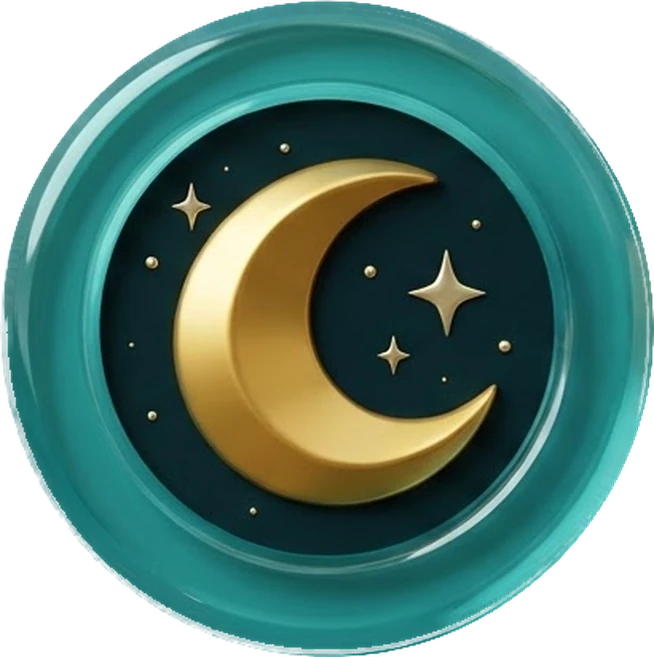
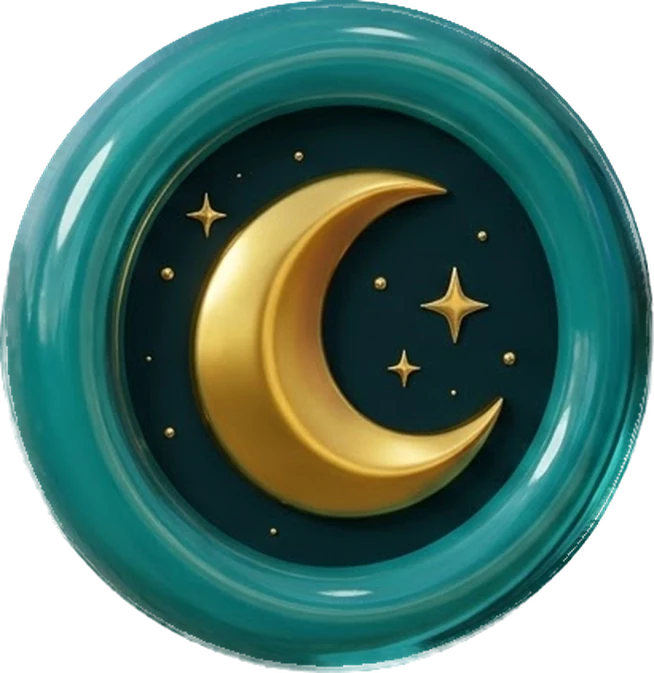
Full Moon: use the thicker glass-ring teal and violet moons (preview only)
Claude-Session: https://claude.ai/code/session_015NNvcR3eiHmrDddVkBndyw

diff --git a/games/full-moon/src/game.js b/games/full-moon/src/game.js
@@ -1,5 +1,5 @@
 window.MM_ASSETS = {"bg":"assets/bg_v01.webp","crate":"assets/crate_v01.webp","fx_burst":"assets/fx_burst_v01.webp","fx_ring":"assets/fx_ring_v01.webp","fx_spiral":"assets/fx_spiral_v01.webp","medal_1":"assets/medal_1_v01.webp","medal_2":"assets/medal_2_v01.webp","medal_3":"assets/medal_3_v01.webp","medal_4":"assets/medal_4_v01.webp","p01":"assets/p01_sugar_v02.webp","p02":"assets/p02_ice_v02.webp","p03":"assets/p03_bean_light_v02.webp","p04":"assets/p04_bean_medium_v02.webp","p05":"assets/p05_bean_dark_v02.webp","p06":"assets/p06_milk_v02.webp","p07":"assets/p07_cup_v02.webp","p08":"assets/p08_mug_v02.webp","p09":"assets/p09_portal_teal_v02.webp","p10":"assets/p10_portal_violet_v02.webp","p11":"assets/p11_moon_v02.webp","sky_cres":"assets/sky_cres_v01.webp","sky_full":"assets/sky_full_v01.webp","toddy_drop":"assets/toddy_drop_v01.webp","toddy_hold":"assets/toddy_hold_v01.webp"};
-window.MM_META = {"pieces":[{"level":1,"name":"sugar","file":"p01_sugar_v02.webp","w":78,"h":84.9,"ax":39.0,"ay":42.4,"body":78.0,"r":34,"rotates":true},{"level":2,"name":"ice","file":"p02_ice_v02.webp","w":101,"h":111.7,"ax":50.5,"ay":55.8,"body":101.0,"r":44,"rotates":true},{"level":3,"name":"bean_light","file":"p03_bean_light_v02.webp","w":155,"h":125,"ax":77.5,"ay":62.5,"body":136.4,"r":54,"rotates":true},{"level":4,"name":"bean_medium","file":"p04_bean_medium_v02.webp","w":184,"h":146,"ax":92.0,"ay":73.0,"body":161.9,"r":64,"rotates":true},{"level":5,"name":"bean_dark","file":"p05_bean_dark_v02.webp","w":218,"h":175,"ax":109.0,"ay":87.5,"body":191.8,"r":76,"rotates":true},{"level":6,"name":"milk","file":"p06_milk_v02.webp","w":207,"h":207.5,"ax":103.5,"ay":103.7,"body":207.0,"r":90,"rotates":true},{"level":7,"name":"cup","file":"p07_cup_v02.webp","w":274.0,"h":241.5,"ax":120.8,"ay":120.8,"body":241.5,"r":105,"rotates":true},{"level":8,"name":"mug","file":"p08_mug_v02.webp","w":390.1,"h":267.2,"ax":140.3,"ay":133.6,"body":280.6,"r":122,"rotates":false},{"level":9,"name":"portal_teal","file":"p09_portal_teal_v02.webp","w":327,"h":328.6,"ax":163.5,"ay":164.3,"body":327.0,"r":142,"rotates":true},{"level":10,"name":"portal_violet","file":"p10_portal_violet_v02.webp","w":373,"h":374.7,"ax":186.5,"ay":187.3,"body":373.0,"r":162,"rotates":true},{"level":11,"name":"moon","file":"p11_moon_v02.webp","w":427.8,"h":578.6,"ax":213.9,"ay":364.7,"body":427.8,"r":186,"rotates":false}],"bg":{"w":941,"h":1672,"win":[501,91,845,430]},"crate":{"w":1086,"h":1448},"toddy":{"toddy_hold":{"w":373,"h":420},"toddy_drop":{"w":373,"h":420},"anchor_x":221.78217821782175,"paws_y_hold":258.16831683168317,"paws_y_drop":272.029702970297}};
+window.MM_META = {"pieces":[{"level":1,"name":"sugar","file":"p01_sugar_v02.webp","w":78,"h":84.9,"ax":39.0,"ay":42.4,"body":78.0,"r":34,"rotates":true},{"level":2,"name":"ice","file":"p02_ice_v02.webp","w":101,"h":111.7,"ax":50.5,"ay":55.8,"body":101.0,"r":44,"rotates":true},{"level":3,"name":"bean_light","file":"p03_bean_light_v02.webp","w":155,"h":125,"ax":77.5,"ay":62.5,"body":136.4,"r":54,"rotates":true},{"level":4,"name":"bean_medium","file":"p04_bean_medium_v02.webp","w":184,"h":146,"ax":92.0,"ay":73.0,"body":161.9,"r":64,"rotates":true},{"level":5,"name":"bean_dark","file":"p05_bean_dark_v02.webp","w":218,"h":175,"ax":109.0,"ay":87.5,"body":191.8,"r":76,"rotates":true},{"level":6,"name":"milk","file":"p06_milk_v02.webp","w":207,"h":207.5,"ax":103.5,"ay":103.7,"body":207.0,"r":90,"rotates":true},{"level":7,"name":"cup","file":"p07_cup_v02.webp","w":274.0,"h":241.5,"ax":120.8,"ay":120.8,"body":241.5,"r":105,"rotates":true},{"level":8,"name":"mug","file":"p08_mug_v02.webp","w":390.1,"h":267.2,"ax":140.3,"ay":133.6,"body":280.6,"r":122,"rotates":false},{"level":9,"name":"portal_teal","file":"p09_portal_teal_v02.webp","w":327,"h":336.6,"ax":163.5,"ay":168.3,"body":331.8,"r":142,"rotates":true},{"level":10,"name":"portal_violet","file":"p10_portal_violet_v02.webp","w":373,"h":391.8,"ax":186.5,"ay":195.9,"body":382.4,"r":162,"rotates":true},{"level":11,"name":"moon","file":"p11_moon_v02.webp","w":427.8,"h":578.6,"ax":213.9,"ay":364.7,"body":427.8,"r":186,"rotates":false}],"bg":{"w":941,"h":1672,"win":[501,91,845,430]},"crate":{"w":1086,"h":1448},"toddy":{"toddy_hold":{"w":373,"h":420},"toddy_drop":{"w":373,"h":420},"anchor_x":221.78217821782175,"paws_y_hold":258.16831683168317,"paws_y_drop":272.029702970297}};
 (function () {
 const C = (function(){
 // Moon Merge rules. PURE and DETERMINISTIC: no Math.random, no Date, no trig,
